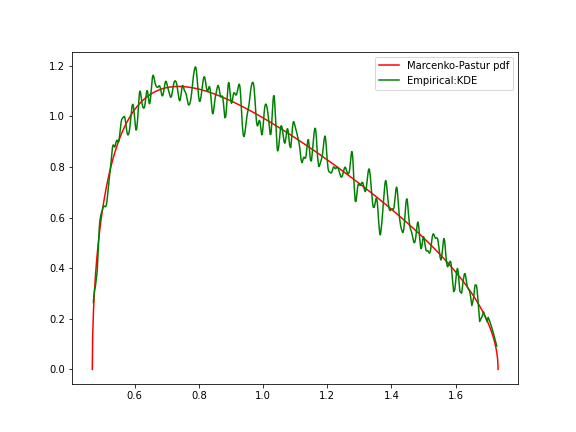
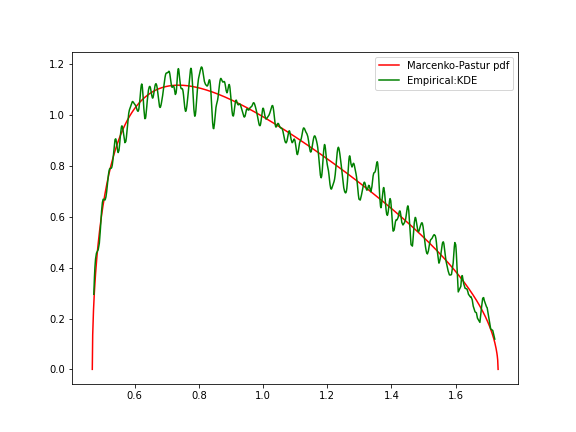
new stuff on eignvalues and eignvectors

diff --git a/Lecture-3-denoising-and-detoning.html b/Lecture-3-denoising-and-detoning.html
@@ -305,85 +305,69 @@ def findMaxEval(eVal, q, bWidth):
 ```
 
 ]
-.panel[.panel-name[Visualise the results]
+.panel[.panel-name[Find optimal values]
 
 ```python
 # Find optimal values
-eMax0, var0 = findMaxEval(np.diag(eVal01), q, bWidth=.01)
+eMax0, var0 = findMaxEval(np.diag(eVal01), q, bWidth=.01);
 ```
 
 ```
-## sse:743.8310178570155
-## sse:743.8309238753185
-## sse:287.46245524755346
-## sse:287.4624515780414
-## sse:280.45633584616894
-## sse:280.4563397201816
-## sse:237.08566097204118
-## sse:237.08566844642894
-## sse:128.56297681122442
-## sse:128.56294636824515
-## sse:187.630397526378
-## sse:187.6304069609841
-## sse:19.205983769510127
-## sse:19.205986988603836
+## sse:739.9441088898633
+## sse:739.9440162401789
+## sse:289.0209110824115
+## sse:289.02090701220294
+## sse:280.0264610903838
+## sse:280.0264655622451
+## sse:229.51816611837455
+## sse:229.51817352224492
+## sse:324.97833092232014
+## sse:324.978278744306
+## sse:60.78878770273689
+## sse:60.78879933239974
+## sse:19.006410279744458
+## sse:19.006413109910717
 ## sse:7036642712506.261
 ## sse:7022590508897.954
-## sse:1238.9514728229512
-## sse:1238.9513344194652
-## sse:17.708608659565442
-## sse:17.708608579662922
-## sse:287.46245524755346
-## sse:287.4624515780414
-## sse:17.71072924952899
-## sse:17.710729399373527
-## sse:17.707773410955685
-## sse:17.70777341095829
-## sse:17.707773410956023
-## sse:17.70777341095602
-## sse:17.70777341095555
-## sse:17.707773410957707
-## found errPDFs0.6763725040697235
+## sse:1246.5098885829473
+## sse:1246.5097500909508
+## sse:17.86292585604117
+## sse:17.862925781312136
+## sse:289.0209110824115
+## sse:289.02090701220294
+## sse:17.864861503982983
+## sse:17.864861646047522
+## sse:17.862191119313632
+## sse:17.86219111931628
+## sse:17.862191119313895
+## sse:17.86219111931401
+## sse:17.86219111931353
+## sse:17.86219111931551
+## found errPDFs0.6761854246360635
 ```
 
 ```python
-nFacts0 = eVal01.shape[0]-np.diag(eVal01)[::-1].searchsorted(eMax0)
+nFacts0 = eVal01.shape[0]-np.diag(eVal01)[::-1].searchsorted(eMax0);
 pdf0 = mpPDF(var0, q=x.shape[0]/float(x.shape[1]), pts=N)
 pdf2=fitKDE(np.diag(eVal01),bWidth=.005)
+```
+]
+.panel[.panel-name[Visualise results]
+
+
+```
 # Plot results
 fig = plt.figure()
 ax  = fig.add_subplot(111)
-ax.hist(np.diag(eVal01), density = True, bins=50); # Histogram the eigenvalues
-```
-
-```
-## (array([1.22671127, 1.56201234, 1.44751929, 1.26760164, 0.98954709,
-##        0.67878023, 0.18809573, 0.        , 0.        , 0.        ,
-##        0.        , 0.        , 0.        , 0.        , 0.        ,
-##        0.00817808, 0.00817808, 0.02453423, 0.0327123 , 0.0327123 ,
-##        0.0327123 , 0.04906845, 0.01635615, 0.04089038, 0.0327123 ,
-##        0.0327123 , 0.02453423, 0.04089038, 0.0327123 , 0.02453423,
-##        0.02453423, 0.0327123 , 0.02453423, 0.02453423, 0.0327123 ,
-##        0.0327123 , 0.01635615, 0.02453423, 0.01635615, 0.02453423,
-##        0.01635615, 0.02453423, 0.01635615, 0.01635615, 0.00817808,
-##        0.00817808, 0.01635615, 0.00817808, 0.00817808, 0.00817808]), array([0.32774075, 0.45001891, 0.57229708, 0.69457524, 0.8168534 ,
-##        0.93913157, 1.06140973, 1.18368789, 1.30596606, 1.42824422,
-##        1.55052238, 1.67280054, 1.79507871, 1.91735687, 2.03963503,
-##        2.1619132 , 2.28419136, 2.40646952, 2.52874768, 2.65102585,
-##        2.77330401, 2.89558217, 3.01786034, 3.1401385 , 3.26241666,
-##        3.38469483, 3.50697299, 3.62925115, 3.75152931, 3.87380748,
-##        3.99608564, 4.1183638 , 4.24064197, 4.36292013, 4.48519829,
-##        4.60747645, 4.72975462, 4.85203278, 4.97431094, 5.09658911,
-##        5.21886727, 5.34114543, 5.4634236 , 5.58570176, 5.70797992,
-##        5.83025808, 5.95253625, 6.07481441, 6.19709257, 6.31937074,
-##        6.4416489 ]), &lt;BarContainer object of 50 artists&gt;)
+hist_data=np.diag(eVal01)
+ax.hist(hist_data, density = True, bins=50); # Histogram the eigenvalues
+plt.plot(pdf0.keys(), pdf0, color='r', label="Marcenko-Pastur pdf");
+# plt.plot(pdf1.keys(), pdf1, color='g', label="Empirical:KDE");
+plt.plot(pdf2.keys(), pdf2, color='b', label="Eigenvalues of random-matrix with signal");
+plt.legend(loc="upper right");
 ```
 
 ```python
-plt.plot(pdf0.keys(), pdf0, color='r', label="Marcenko-Pastur pdf");
-plt.plot(pdf1.keys(), pdf1, color='g', label="Empirical:KDE");
-plt.plot(pdf2.keys(), pdf2, color='b', label="Eigenvalues of random-matrix with signal");
-plt.legend(loc="upper right");
 plt.show()    
 ```
 
